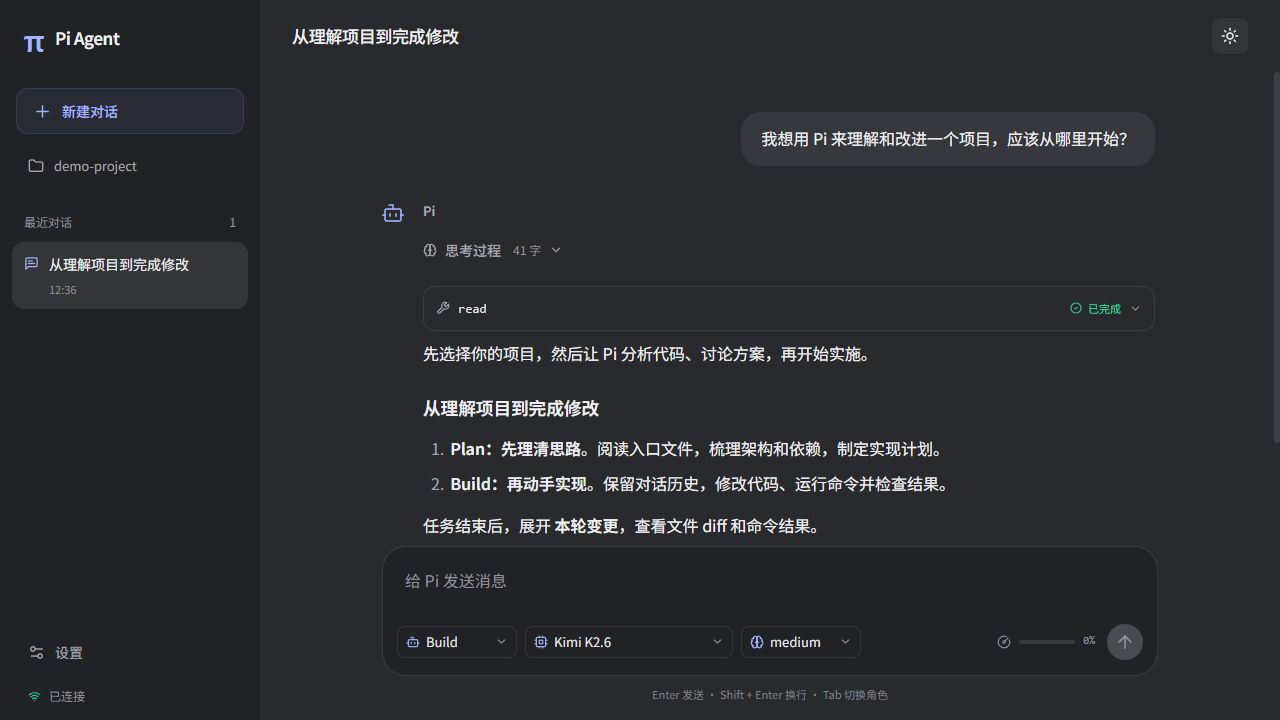
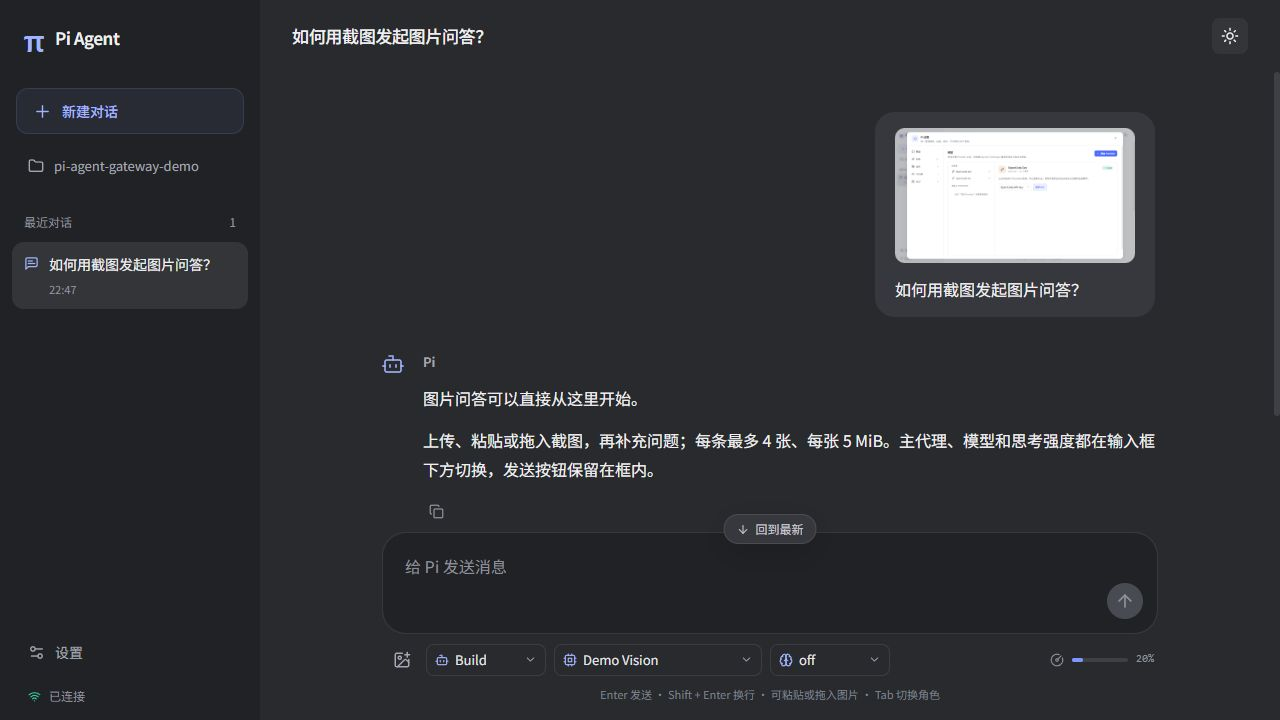
docs: update image question guides and console screenshots

diff --git a/README.zh-CN.md b/README.zh-CN.md
@@ -4,7 +4,7 @@
 
 **给 Pi Coding Agent 一个可视化工作台，并把 Agent 后端接入你自己的应用。**
 
-选择项目，用 Plan 理清思路、用 Build 实施修改，再检查文件 diff 和执行结果。也可以通过 TypeScript 客户端把这套能力接入自己的应用。
+选择项目，用 Plan 理清思路、用 Build 实施修改，再检查文件 diff 和执行结果。上传截图讨论界面或报错，在主对话旁查看子代理的执行过程。也可以通过 TypeScript 客户端把这套能力接入自己的应用。
 
 [English](./README.md) · [简体中文](./README.zh-CN.md)
 
@@ -13,13 +13,13 @@
 [![CI](https://github.com/Fucheng-Wu/pi-agent-gateway/actions/workflows/ci.yml/badge.svg)](https://github.com/Fucheng-Wu/pi-agent-gateway/actions/workflows/ci.yml)
 [![License: MIT](https://img.shields.io/badge/License-MIT-A78BFA)](./LICENSE)
 
-[快速开始](#快速开始) · [功能](#功能) · [接入自己的应用](#接入自己的应用) · [参与贡献](./CONTRIBUTING.md)
+[快速开始](#快速开始) · [功能](#功能) · [图片问答](#图片问答) · [接入自己的应用](#接入自己的应用) · [参与贡献](./CONTRIBUTING.md)
 
 </div>
 
 ![Pi Agent Gateway 连接本地后端后的真实控制台](./docs/images/console.png)
 
-*新版亮色控制台：使用隔离环境中的演示会话展示排版、思考区和工具卡片；会话内容及工具结果为模拟数据，未调用模型。*
+*隔离演示环境中的亮色控制台：展示图片问答、附件预览，以及输入框下方的对话工具栏。回复由本地测试服务模拟。*
 
 <details>
 <summary>查看暗色界面</summary>
@@ -35,6 +35,7 @@
 Pi Agent Gateway 为 Pi 提供浏览器工作台，并通过有类型定义的 WebSocket 协议暴露会话流程。你可以直接用 Vue 控制台处理本地编程任务，也可以以 Hono 后端为起点，为自己的应用加入 Agent 能力。
 
 - **看得见执行过程**：在同一个对话里查看流式回复、模型提供的思维过程、工具输入与执行结果。
+- **带着图片提问**：附上截图，用支持图像输入的模型讨论界面、报错或图表。
 - **先规划，再实现**：在 Plan 和 Build 之间切换，保留同一份会话历史。
 - **检查实际结果**：任务结束后查看本轮文件 diff、命令输出和失败情况。
 - **界面由你决定**：使用附带的 Vue 控制台，或通过 [TypeScript 客户端](./client/README.md) 和 [WebSocket 协议](./docs/protocol.md) 接入自己的前端。
@@ -47,6 +48,8 @@ Pi Agent Gateway 为 Pi 提供浏览器工作台，并通过有类型定义的 W
 | --- | --- |
 | 多会话 | 创建、切换对话，从 Pi JSONL 文件恢复已保存的历史 |
 | 图片问答 | 点击上传、粘贴或拖入图片，预览和移除附件，支持仅图片提问；历史会话保留图片 |
+| 输入区 | 框内保留发送/停止按钮；上传图片、主代理、模型、思考强度和上下文用量位于框下方 |
+| 子代理分屏 | 打开 Agent 工具调用，在主对话旁查看子代理消息、思考和工具执行；子代理历史随主会话保存 |
 | 项目选择 | 浏览目录、切换最近项目，无需重启；侧栏显示当前项目，悬停查看完整路径 |
 | 本轮变更 | 查看任务期间的文件 diff、根会话执行的 Bash 命令及结果 |
 | 实时执行 | 思考内容生成时自动展开、正文输出时折叠，可手动回看；查看工具输入与结果 |
@@ -93,9 +96,18 @@ pnpm start
 
 1. 选择内置 Provider 完成认证，或创建自定义兼容端点。
 2. 自定义端点需要填写 API 类型、Base URL、API Key 和模型 ID；上游支持时，也可以发现模型。
-3. 保存自定义模型配置，创建对话，在输入框底部选择模型。
+3. 保存自定义模型配置，创建对话，在**输入框下方的工具栏**选择模型。
 
-如需图片问答，选择带“图像”标记的模型，点击输入框左下角的上传按钮，或直接粘贴、拖入图片。支持 PNG、JPEG、GIF、WebP，每条消息最多 4 张，每张不超过 5 MB，可附带文字或直接发送图片。自定义模型需在输入类型中配置 `text, image`，且上游实际支持图像输入。
+新建会话读取 Pi 的 `settings.json` 中的默认模型。以 DeepSeek Flash 为例，将以下字段合并到 `PI_AGENT_DIR/settings.json`（通常是 `~/.pi/agent/settings.json`），保留其他已有配置：
+
+```json
+{
+  "defaultProvider": "deepseek",
+  "defaultModel": "deepseek-flash"
+}
+```
+
+需先完成 Provider 认证，并确认模型 ID 存在于可用目录中。已有会话保留原来的模型选择；在单个会话切换模型不会修改全局默认值。
 
 ### 3. 指定要操作的项目
 
@@ -124,6 +136,8 @@ PI_WORKSPACE_DIR=/absolute/path/to/your/project pnpm start
 
 > 阅读这个项目的入口文件，解释整体架构，找出一个适合改进的小问题，并给出实现计划。
 
+输入框下方依次提供图片上传、主代理、模型、思考强度和上下文用量。框内仅保留发送按钮，生成时切换为停止按钮；图片预览位于框上方。按 `Enter` 发送，`Shift+Enter` 换行。
+
 会话空闲后，切换到 **Build** 实现确认过的方案。Build 默认自动执行常规文件修改和命令；文件工具访问工作目录外的路径或读取敏感 `.env` 时需要确认。确认框支持本次允许、按展示范围本会话允许或拒绝。在输入框按 `Tab` / `Shift+Tab` 可以循环切换主代理。
 
 ### 5. 检查结果与继续对话
@@ -136,6 +150,18 @@ PI_WORKSPACE_DIR=/absolute/path/to/your/project pnpm start
 文件 diff 比较的是本轮任务开始前后的工作区内容，也会包含同期手动或其他会话的修改。它需要 Git，省略的文件和内容会在界面中提示，详见 [变更报告与限制](./docs/configuration.md#run-review-and-long-conversations)。
 
 环境变量、数据存储和连接问题见 [配置与排查文档（英文）](./docs/configuration.md)。
+
+## 图片问答
+
+1. 在输入框下方的模型选择器中，选择带 **图像** 标记的模型。
+2. 点击同一工具栏中的上传按钮，或向输入框粘贴图片、拖入图片文件。在输入框上方预览附件，并移除不需要的图片。
+3. 输入问题，例如“这张报错截图是什么意思？”，也可以不填写文字，直接发送图片。
+
+支持 **PNG、JPEG、GIF、WebP**，每条消息最多 **4 张**，每张不超过 **5 MiB**。发送前会检查格式、大小和图片能否解码。选用纯文本模型时，界面会提示切换，并禁用图片发送。
+
+自定义视觉模型需在设置中将输入类型配置为 `text, image`，且上游模型实际支持图像输入。Pi 可能按 Provider 限制调整图片尺寸。图片会随 Pi JSONL 会话历史保存，重新打开对话后仍可查看；请求被拒绝时，已提交的文字和图片会恢复为草稿。
+
+自定义客户端可在 `prompt` 命令的 `text` 之外传入 `images`，详见 [图片消息格式与限制](./docs/protocol.md#3-send-a-task-and-consume-events)。
 
 ## 接入自己的应用
 
